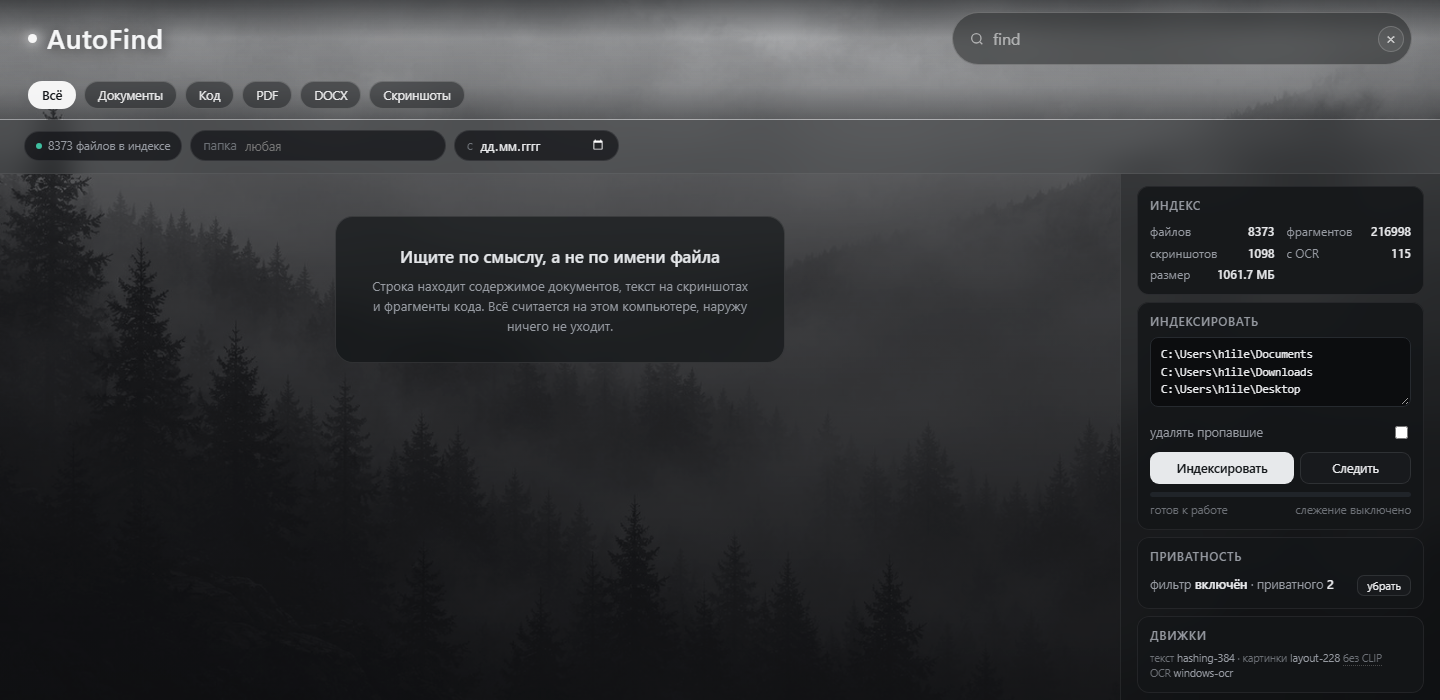
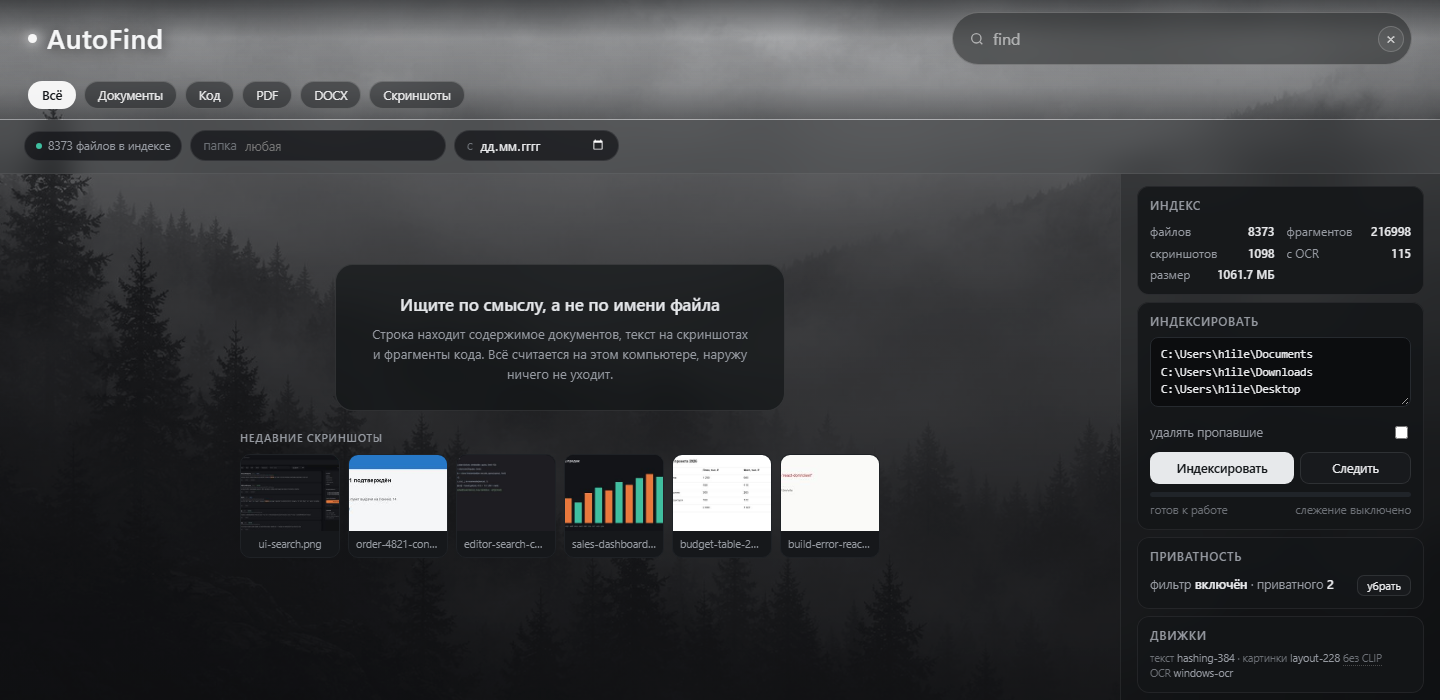
UI: idle screen centred with recent screenshots, sidebar footer

diff --git a/web/style.css b/web/style.css
@@ -315,12 +315,23 @@ button, input, select { font-family: inherit; font-size: inherit; color: inherit
 
 main {
   grid-area: main;
+  display: flex;
+  flex-direction: column;
   overflow-y: auto;
   padding: 16px 24px 48px;
   /* Translucent on purpose: the photo keeps showing through the gaps between
      cards, which is what makes the page read as one surface instead of a
      photo header glued to a black list. */
   background: rgba(9, 10, 12, 0.44);
+}
+
+/* #content has to carry the height down to the idle state, otherwise `height:
+   100%` on .empty resolves against an auto-height div and the plate stops
+   being centred. `1 0 auto` keeps a long result list from being squeezed. */
+#content {
+  flex: 1 0 auto;
+  display: flex;
+  flex-direction: column;
 }
 
 .results { display: flex; flex-direction: column; gap: 10px; }
@@ -490,12 +501,39 @@ main {
 
 aside {
   grid-area: side;
+  display: flex;
+  flex-direction: column;
   border-left: 1px solid rgba(255, 255, 255, 0.07);
-  padding: 14px 16px 16px;
+  padding: 12px 16px 16px;
   overflow-y: auto;
   background: rgba(11, 12, 14, 0.56);
   backdrop-filter: blur(16px) saturate(120%);
-  padding-top: 12px;
+}
+
+/* Four panels are shorter than a full-height column, so the empty tail of the
+   sidebar looked like a rendering bug. The shortcut hint anchors the column to
+   the bottom edge and pays for the space it occupies. */
+.side-foot {
+  margin-top: auto;
+  padding: 14px 2px 0;
+  display: flex;
+  flex-wrap: wrap;
+  gap: 12px;
+  font-size: 11px;
+  color: var(--faint);
+}
+
+.side-foot span { display: inline-flex; align-items: center; gap: 5px; }
+
+.side-foot kbd {
+  font: inherit;
+  min-width: 18px;
+  padding: 1px 5px;
+  text-align: center;
+  border: 1px solid rgba(255, 255, 255, 0.14);
+  border-radius: 5px;
+  background: rgba(255, 255, 255, 0.06);
+  color: var(--muted);
 }
 
 .panel {
@@ -640,22 +678,27 @@ aside {
 
 /* ---------------------------------------------------------------- states */
 
+/* Centred, not top-aligned: the photo now runs the full height of the window,
+   so a plate pinned under the filter row leaves a visible void beneath it and
+   the column reads as half-finished. A small bottom bias keeps the optical
+   centre where the eye expects it. */
 .empty {
   display: grid;
-  /* Top-aligned, not centred: on a tall window a centred plate floats in the
-     middle of empty forest and reads as a modal. It belongs just under the
-     filter row, where the eye lands after typing. */
-  place-items: start center;
+  place-items: center;
+  flex: 1 1 auto;
   height: 100%;
   min-height: 320px;
-  padding-top: 26px;
+  padding: 8px 0 4vh;
   text-align: center;
 }
 
-/* The idle screen sits straight on the photo now, so it needs its own glass
-   plate: pale grey text on a foggy forest is unreadable without one. */
-.empty > div {
-  max-width: 470px;
+/* The idle screen sits straight on the photo, so it needs its own glass plate:
+   pale grey text on a foggy forest is unreadable without one. */
+.empty > div:not(.empty-body),
+.empty-card {
+  /* `100%` matters: the plate is centred as a flex item, so without a cap it
+     keeps its 470px natural width on a phone and pushes the page sideways. */
+  max-width: min(470px, 100%);
   padding: 26px 34px;
   border: 1px solid rgba(255, 255, 255, 0.1);
   border-radius: 18px;
@@ -665,6 +708,41 @@ aside {
 
 .empty h2 { font-size: 17px; font-weight: 500; color: #e4e6e9; margin: 0 0 6px; }
 .empty p { margin: 0; font-size: 13px; max-width: 380px; color: var(--muted); }
+
+/* The idle column: plate on top, a strip of recent screenshots underneath. */
+.empty-body {
+  display: flex;
+  flex-direction: column;
+  align-items: center;
+  gap: 18px;
+  width: 100%;
+  min-width: 0;
+  max-width: 640px;
+  padding: 0;
+  border: 0;
+  background: none;
+  backdrop-filter: none;
+}
+
+.recent { width: 100%; }
+
+.recent h3 {
+  margin: 0 0 8px;
+  text-align: left;
+  font-size: 11px;
+  font-weight: 600;
+  letter-spacing: 0.6px;
+  text-transform: uppercase;
+  color: var(--muted);
+}
+
+.recent .grid { grid-template-columns: repeat(6, minmax(0, 1fr)); gap: 8px; }
+.recent .shot img { height: 76px; }
+.recent .shot .cap { padding: 5px 7px; font-size: 10.5px; }
+
+@media (max-width: 980px) {
+  .recent .grid { grid-template-columns: repeat(3, minmax(0, 1fr)); }
+}
 
 .toast {
   position: fixed;

diff --git a/web/app.js b/web/app.js
@@ -70,12 +70,38 @@ async function runSearch() {
 function renderIdle() {
   $("content").innerHTML = `
     <div class="empty">
-      <div>
-        <h2>Ищите по смыслу, а не по имени файла</h2>
-        <p>Строка находит содержимое документов, текст на скриншотах и фрагменты кода.
-           Всё считается на этом компьютере, наружу ничего не уходит.</p>
+      <div class="empty-body">
+        <div class="empty-card">
+          <h2>Ищите по смыслу, а не по имени файла</h2>
+          <p>Строка находит содержимое документов, текст на скриншотах и фрагменты кода.
+             Всё считается на этом компьютере, наружу ничего не уходит.</p>
+        </div>
+        <div class="recent" id="recent" hidden></div>
       </div>
     </div>`;
+  loadRecent();
+}
+
+/* The idle screen used to be one small plate on a very large photo, which read
+   as a half-empty page. Six recent screenshots give the space a floor: the eye
+   lands on something real and the whole column stops looking unfinished. */
+let recentLoaded = false;
+
+async function loadRecent() {
+  if (recentLoaded) return;
+  recentLoaded = true;
+  const host = $("recent");
+  if (!host) return;
+  try {
+    const data = await api("/api/images?limit=6");
+    const images = (data.images || []).slice(0, 6);
+    if (!images.length || !$("recent")) return;
+    host.innerHTML = `<h3>недавние скриншоты</h3>
+      <div class="grid">${images.map(shot).join("")}</div>`;
+    host.hidden = false;
+  } catch (error) {
+    recentLoaded = false; // a decoration must never break the idle screen
+  }
 }
 
 function card(hit, query) {

diff --git a/web/index.html b/web/index.html
@@ -100,6 +100,11 @@
       <h3>Движки</h3>
       <div class="engines" id="engines">—</div>
     </div>
+
+    <div class="side-foot">
+      <span><kbd>/</kbd> фокус в поиске</span>
+      <span><kbd>esc</kbd> очистить</span>
+    </div>
   </aside>
 </div>
 

diff --git a/docs/decisions.md b/docs/decisions.md
@@ -130,3 +130,37 @@ UI открывает Store на каждый запрос. Без кеша эт
 Чтобы четыре панели влезали в 700 px, заодно ужаты отступы панелей (14→11/12,
 margin 12→8), строки статистики (3→2), поле путей (62→52), а две подписи
 прогресса стоят в одну строку через flex.
+
+## 18. Сайдбар вернулся под шапку
+
+Пункт 17 не выжил: колонка во всю высоту окна поднимала панели на уровень
+заголовка, и композиция «слово + поиск + фото» разваливалась — сайдбар начинался
+выше, чем заканчивался заголовок. Возвращены прежние области
+(`"head head" / "tools tools" / "main side"`), а высота добрана плотностью:
+статистика в две колонки, кнопки «Индексировать»/«Следить» в один ряд, строка
+приватности слита в одну, «Движки» в две строки, поле путей на три строки.
+На окне 700 px все четыре панели влезают без прокрутки.
+
+## 19. Пустой экран — по центру и с недавними скриншотами
+
+Плитка стояла у верхнего края, под ней оставалось пол-экрана леса: колонка
+читалась как незаконченная. Теперь она центрируется по вертикали (с небольшим
+смещением вверх, `padding-bottom: 4vh`), а под ней идёт полоса из шести недавних
+скриншотов (`/api/images`, сортировка по `mtime`).
+
+Чтобы центрирование заработало, `#content` получил `flex: 1 0 auto` внутри
+`main` — иначе `height: 100%` у `.empty` считался от блока с авто-высотой и
+плитка снова прилипала к верху.
+
+Полоса недавних — не украшение: она даёт взгляду точку опоры и заодно вход в
+поиск по похожим (клик открывает модалку «Похожие скриншоты»). Если картинок в
+индексе нет, полоса просто не показывается, а ошибка запроса не ломает экран.
+
+Хвост сайдбара закрыт подсказкой по клавишам (`/` — фокус, `esc` — очистить):
+четыре панели короче колонки, и пустой низ выглядел как баг вёрстки.
+
+## 20. `max-width: min(470px, 100%)` у плитки
+
+Плитка центрируется как flex-элемент, то есть получает свою natural-width и не
+сжимается под контейнер. На узком окне 470 px уезжали за край и тянули за собой
+всю страницу. Тот же приём, что и с полями фильтров в мобильной ветке.
